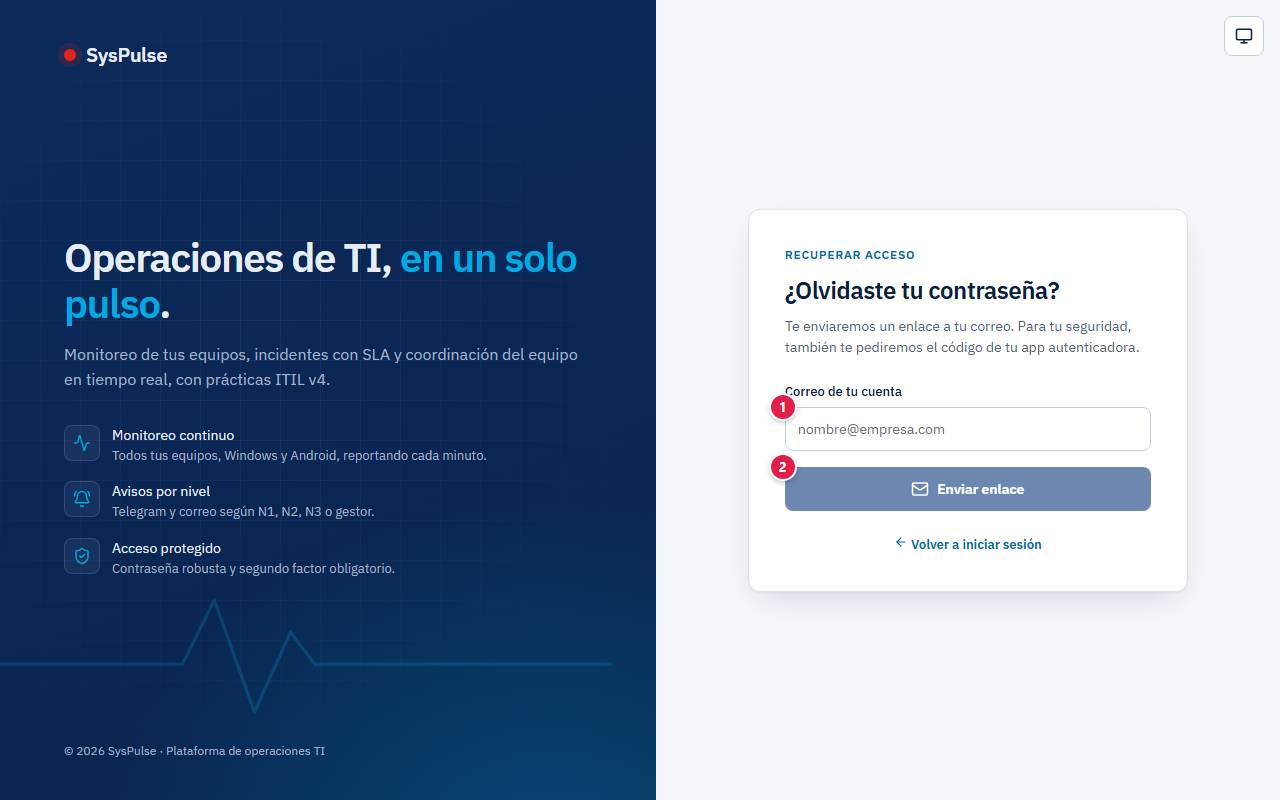
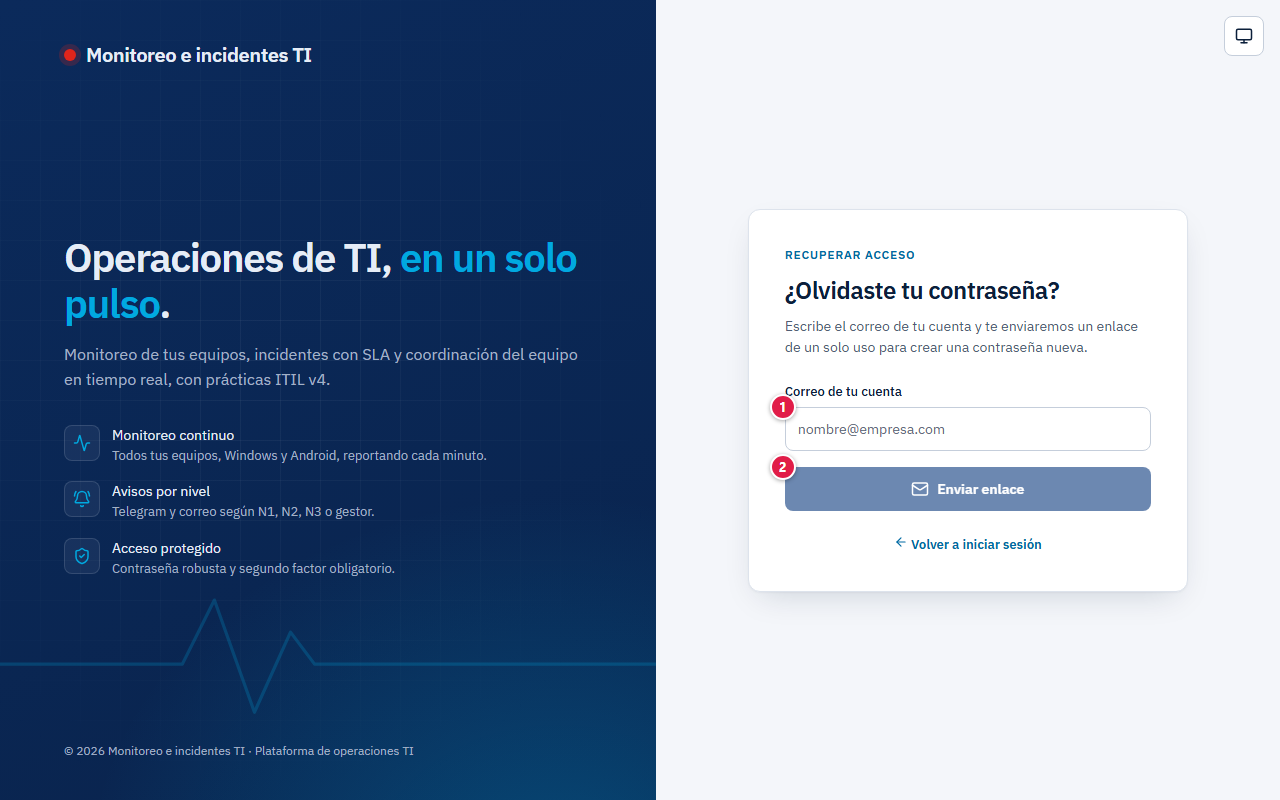
docs(manual): capturas con el nombre Monitoreo e incidentes TI y la recuperación nueva [skip ci]
Se regeneraron las 12 capturas del manual (mismo nombre, viewport 1280x800 y marcadores rojos
numerados) y se agregan 13-segundo-factor, 14-restablecer y 15-perdi-autenticador. Correo, teléfono
de Telegram y nombres de otras personas ocultos; menú de administración oculto.

diff --git a/docs/MANUAL.md b/docs/MANUAL.md
@@ -33,9 +33,9 @@ un incidente con prioridad y SLA, avisa por Telegram y correo al nivel de soport
 - Necesitas un navegador, **una app autenticadora** (Google o Microsoft Authenticator, Authy) o
   acceso a tu **correo** para la verificación en dos pasos, y una cuenta de **Telegram**.
 - La API se duerme sin uso: la primera visita puede tardar hasta un minuto (la web lo avisa).
-- Las capturas internas se tomaron con una cuenta de prueba de nivel **N2**; el correo y el
-  Telegram aparecen ocultos. La pantalla de **Administración** solo la ve el rol admin y se
-  describe en texto.
+- Las capturas internas se tomaron con la cuenta de prueba; el correo, el Telegram y los nombres
+  de las demás personas aparecen ocultos o con datos de ejemplo. El menú y los botones de
+  **Administración** solo los ve el rol admin: se ocultaron en las capturas y se describen en texto.
 
 ### Límites
 
